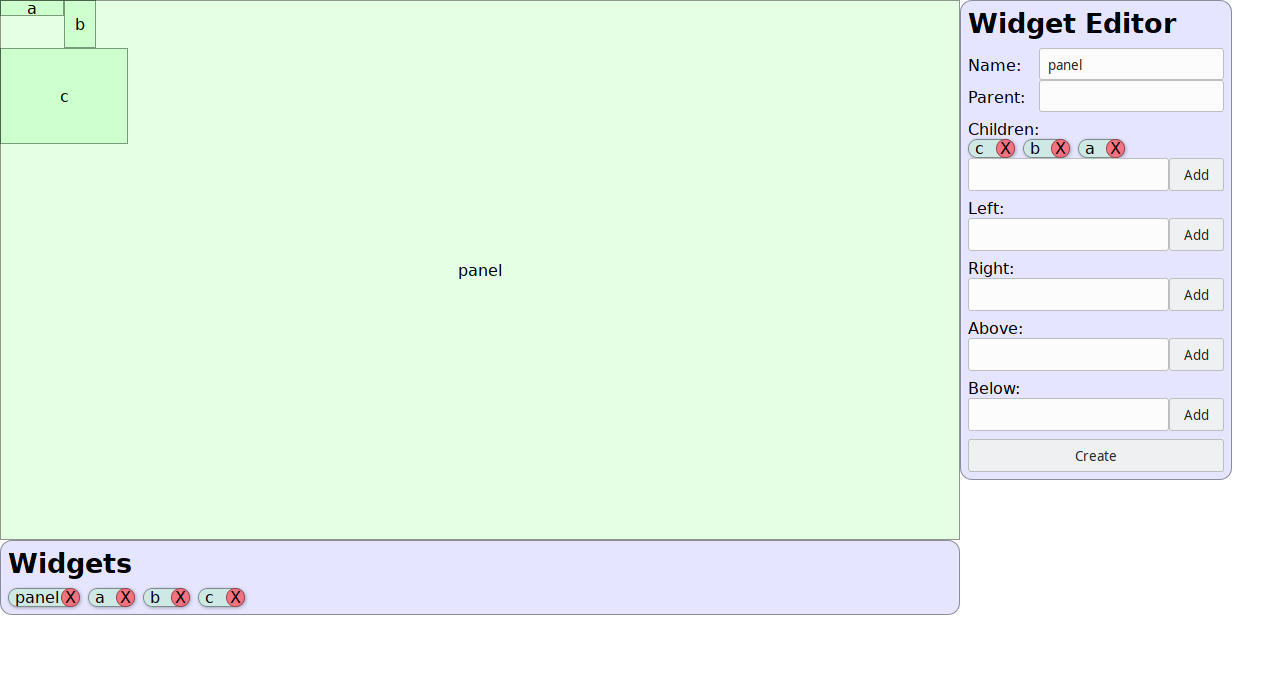
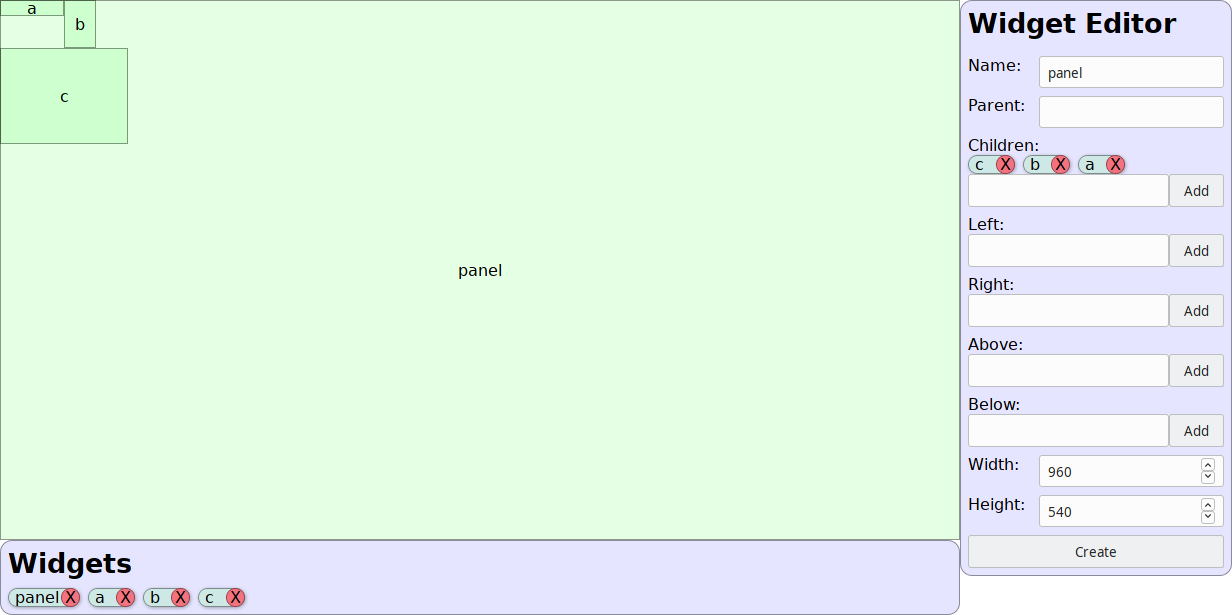
Continued work on prototype.
Can now remove child widgets, set the parent widget, and set the width
and height of a widget from the Widget Editor panel.

diff --git a/test.js b/test.js
@@ -124,13 +124,21 @@ function drawWidgets() {
     if (!root) {
         return;
     }
+    
+    widgets.forEach((widget) => {
+        if (widget.parent) {
+            widget.x0 = null;
+            widget.x1 = null;
+            widget.y0 = null;
+            widget.y1 = null;
+        }
+    });
 
     // set widget positions
     root.children.forEach((child) => {
         child.computeX();
         child.computeY();
     });
-
     let widgets_width = 0;
     let widgets_height = 0;
     widgets.forEach((widget) => {
@@ -140,6 +148,7 @@ function drawWidgets() {
     });
     widgets_element.style.width = widgets_width + "px";
     widgets_element.style.height = widgets_height + "px";
+    document.body.style.gridTemplateRows = widgets_height + "px auto";
 
 }
 
@@ -190,7 +199,7 @@ function removeWidget(widget) {
     processWidgets();
 }
 
-function makeWidgetListItem(widget, edit_select) {
+function makeWidgetListItem(widget, edit_select, on_remove_click) {
     let item = document.createElement("div");
     item.draggable = true;
     if (edit_select) {
@@ -208,36 +217,35 @@ function makeWidgetListItem(widget, edit_select) {
     item_remove_button.innerHTML = "X";
     item.appendChild(item_text);
     item.appendChild(item_remove_button);
-    item_remove_button.onclick = function(e) {
-        e.stopPropagation();
-        console.log("remove button clicked");
-        removeWidget(widget);
-    };
+    item_remove_button.onclick = (e) => on_remove_click(e, widget, item);
     return item;
 }
 
-function appendWidgetList(dom_element, widget_list, edit_select) {
+function appendWidgetList(dom_element, widget_list, edit_select, on_remove_click) {
     if (widget_list.length == 0) {
         return;
     }
-    dom_element.appendChild(makeWidgetListItem(widget_list[0], edit_select));
+    dom_element.appendChild(makeWidgetListItem(widget_list[0], edit_select, on_remove_click));
     for (let i = 1; i < widget_list.length; i++) {
         let space = document.createElement("span");
         space.classList.add("widget-list-space");
         dom_element.appendChild(space);
-        dom_element.appendChild(makeWidgetListItem(widget_list[i], edit_select));
+        dom_element.appendChild(makeWidgetListItem(widget_list[i], edit_select, on_remove_click));
     }
 }
 
-function updateWidgetList(dom_element, widget_list, edit_select) {
+function updateWidgetList(dom_element, widget_list, edit_select, on_remove_click) {
     clearWidgetList(dom_element);
-    appendWidgetList(dom_element, widget_list, edit_select);
+    appendWidgetList(dom_element, widget_list, edit_select, on_remove_click);
 }
 
 function processWidgets() {
     drawWidgets();
     let widget_list = document.getElementById("main-widget-list");
-    updateWidgetList(widget_list, widgets, true);
+    updateWidgetList(widget_list, widgets, true, (e, widget, item) => {
+        e.stopPropagation();
+        removeWidget(widget);
+    });
     let widget_datalist = document.getElementById("widget-datalist");
     widget_datalist.innerHTML = "";
     widgets.forEach((widget) => {
@@ -252,22 +260,63 @@ function processWidgets() {
 
 var editing_widget = null;
 
+function updateWidgetLists(widget) {
+    updateWidgetList(document.getElementById("widget-editor-children"), widget.children, false, (e, removed_widget) => {
+        widget.children = widget.children.filter(i => i != removed_widget);
+        removed_widget.parent = null;
+        updateWidgetLists(widget);
+    });
+    updateWidgetList(document.getElementById("widget-editor-left"), widget.left);
+    updateWidgetList(document.getElementById("widget-editor-right"), widget.right);
+    updateWidgetList(document.getElementById("widget-editor-above"), widget.above);
+    updateWidgetList(document.getElementById("widget-editor-below"), widget.below);
+}
+
+function findWidget(widget_label) {
+    for (i of widgets) {
+        if (i.label == widget_label) {
+            return i;
+        }
+    }
+    return null;
+}
+
 function editWidget(widget) {
     editing_widget = widget;
 
-    widget_name_field = document.getElementById("widget-name-field");
+    const widget_name_field = document.getElementById("widget-name-field");
     widget_name_field.value = widget.label;
-    widget_parent_field = document.getElementById("widget-parent");
+
+
+    const widget_parent_field = document.getElementById("widget-parent");
     if (!widget.parent) {
         widget_parent_field.value = "";
     } else {
         widget_parent_field.value = widget.parent.label;
     }
-    updateWidgetList(document.getElementById("widget-editor-children"), widget.children);
-    updateWidgetList(document.getElementById("widget-editor-left"), widget.left);
-    updateWidgetList(document.getElementById("widget-editor-right"), widget.right);
-    updateWidgetList(document.getElementById("widget-editor-above"), widget.above);
-    updateWidgetList(document.getElementById("widget-editor-below"), widget.below);
+    widget_parent_field.onchange = () => {
+        widget.parent = findWidget(widget_parent_field.value);
+        processWidgets();
+    };
+
+    updateWidgetLists(widget);
+    const widget_width_field = document.getElementById("widget-width");
+    widget_width_field.value = widget.width;
+    const widget_height_field = document.getElementById("widget-height");
+    widget_height_field.value = widget.height;
+
+    let onchange_function = () => {
+        if (widget_name_field.value == widget.label) {
+            widget.width = parseInt(widget_width_field.value);
+            widget.height = parseInt(widget_height_field.value);
+            processWidgets();
+        }
+    };
+
+    
+
+    widget_width_field.onchange = onchange_function;
+    widget_height_field.onchange = onchange_function;
 }
 
 window.onload = () => {

diff --git a/test.css b/test.css
@@ -25,6 +25,8 @@ body {
     grid-column: 2;
     width: 256px;
     display: grid;
+    grid-row-start: 1;
+    grid-row-end: 3;
 }
 
 .editor-panel {
@@ -36,6 +38,8 @@ body {
 
 .main-widget-list {
     width: auto;
+    grid-row-start: 2;
+    grid-row-end: 3;
 }
 
 h1 {
@@ -100,6 +104,14 @@ label {
     margin-top: 8px;
 }
 
+.widget-editor input {
+    margin-top: 8px;
+}
+
+.widget-editor button {
+    margin-top: 8px;
+}
+
 .text-field-with-button {
     display: grid;
 }
@@ -108,11 +120,13 @@ label {
     display: inline;
     width: 100%;
     grid-column: 1;
+    margin-top: 0px;
 }
 
 .text-field-with-button button {
     display: inline;
     grid-column: 2;
+    margin-top: 0px;
 }
 
 body {

diff --git a/test.html b/test.html
@@ -55,6 +55,12 @@
                 <input list="widget-datalist" id="widget-add-below"/>
                 <button id="add-below-widget-button" type="button">Add</button>
             </div>
+
+            <label>Width:</label>
+            <input type="number" id="widget-width"/>
+            <label>Height:</label>
+            <input type="number" id="widget-height"/>
+
             <button id="new-widget-button">Create</button>
 
             <datalist id="widget-datalist">
